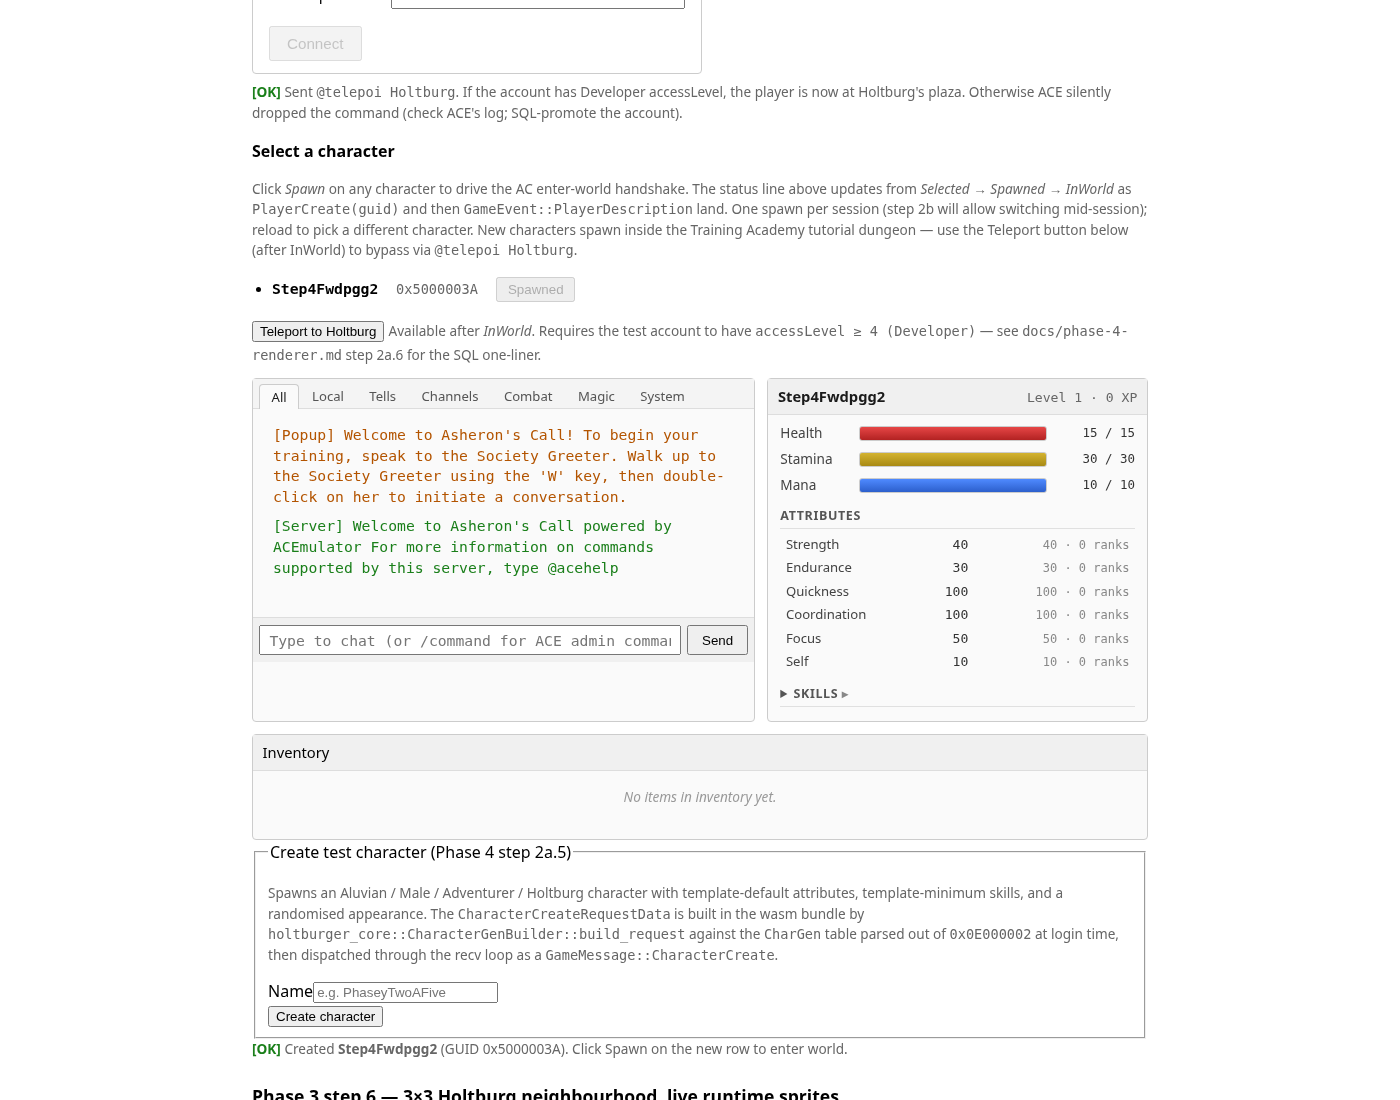
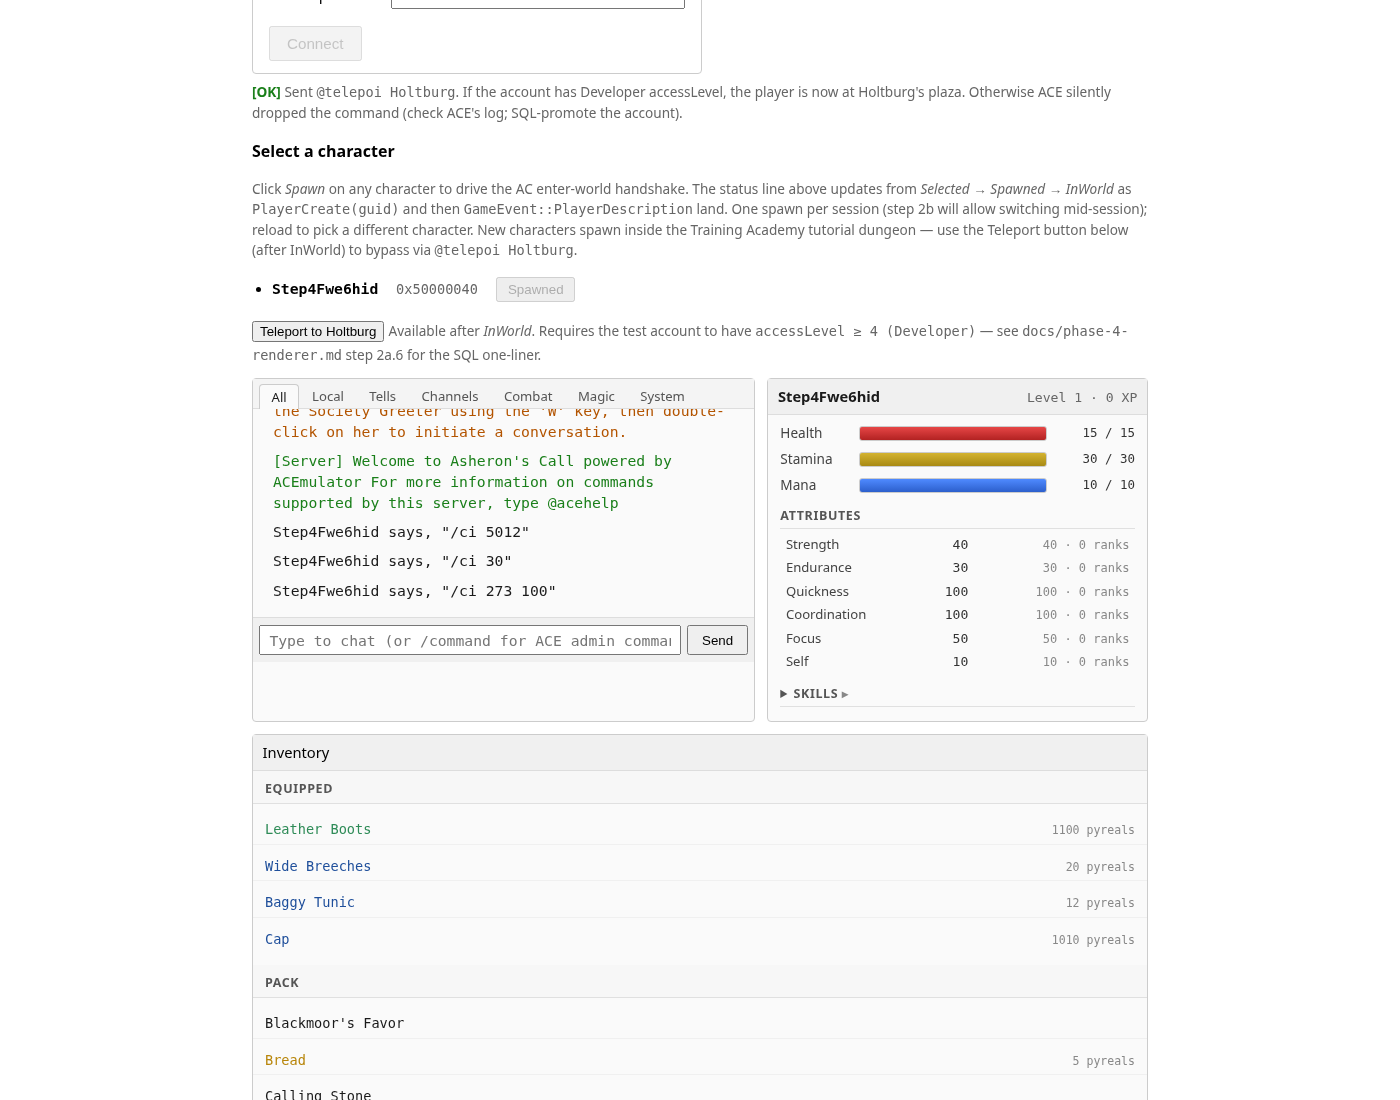
fix(emit-dynamic-site): inventory routing panic — bypass spatial body path
ObjectCreate routing through `holtburger_world::handlers::routing::handle_message`
panicked with `unreachable` in the spatial body store's
`scene.update_entity` + `reconcile_authoritative_body` path —
the wasm bundle doesn't drive the full physics tick the cli does
(no rapier integration), so some spatial preconditions aren't met
and the wasm `unreachable` instruction trips when the panic codegen
goes through the futures task closure (console_error_panic_hook
doesn't catch it).

Fix: bypass routing for the inventory-bearing message types
(ObjectCreate, ObjectDelete, InventoryRemoveObject) and apply the
inventory-relevant subset of the canonical handlers inline in the
recv loop. New helpers in `lib.rs`:

  fn apply_inventory_object_create(world, data) -> bool
  fn apply_inventory_object_delete(world, guid) -> bool

Both touch only `world.entities` (via the public `EntityManager::insert`
/ `EntityManager::remove` — no `add_entity` path which calls into
spatial), `world.player.add_to_inventory` /
`world.player.remove_from_inventory`, and the `wield_item` /
`unwield_item` equipment bookkeeping. The spatial scene + body
store stay untouched. Container ownership + wielder detection use
the same `WorldObjectExt::container_id` / `wielder_id` /
`wield_location` accessors the canonical handlers use.

Validation against live ACE:

- Fresh `Step4Fwe5xu1` character, +3 admin `/ci` grants (Healing
  Kit, Bundle of Arrows, 100 Pyreals).
[…]

diff --git a/external/holtburger/apps/holtburger-web/src/lib.rs b/external/holtburger/apps/holtburger-web/src/lib.rs
@@ -3448,25 +3448,25 @@ pub fn vital_name(vital_type: u32) -> String {
 /// gating, MovementSystem heartbeat arming) and double-handling them
 /// risks regressing step 3.6 / 3.5.
 ///
-/// **`ObjectCreate` / `ObjectDelete` / `ParentEvent` / `PickupEvent`
-/// / `InventoryRemoveObject` are deliberately NOT routed (yet).** The
-/// world's `inventory::handle_message` for `ObjectCreate` calls
+/// **`ObjectCreate` / `ObjectDelete` / `ParentEvent` / `PickupEvent` /
+/// `InventoryRemoveObject` are deliberately NOT routed.** The world's
+/// `inventory::handle_message` for `ObjectCreate` calls
 /// `state.upsert_entity_from_create` → `add_entity` → `scene.update_entity`
-/// + `reconcile_authoritative_body` which trips a wasm `unreachable`
-/// panic when the spatial body store touches state the wasm bundle
-/// hasn't fully initialised. Inventory population thus stays empty
-/// for now; vitals + attributes + skills still flow correctly because
-/// they go through the message types listed below. Resolving the
-/// inventory routing panic is tracked as a follow-on (probably
-/// requires either initialising the spatial scene differently, or
-/// applying a narrower inventory mutation in the recv loop directly).
+/// + `reconcile_authoritative_body`, which trips a wasm `unreachable`
+/// panic in the spatial body store (the wasm bundle doesn't drive the
+/// full physics tick the cli does, so some spatial preconditions
+/// aren't met). Inventory tracking bypasses routing for these
+/// variants — `apply_inventory_object_create` /
+/// `apply_inventory_object_delete` below replicate the
+/// inventory-relevant subset of the canonical handlers (entity
+/// insert, `add_to_inventory` / `remove_from_inventory`, equipment
+/// bookkeeping) without touching spatial state.
 ///
-/// `GameEvent` IS routed because it carries
-/// `UpdateHealth` (vital current), `PlayerDescription` (full biota
-/// hydrate — drives the first kind=8 stats event), and the recv
-/// loop's existing PlayerDescription arm is stripped of its
-/// hydrate/apply/emit calls (the dispatcher does them) so it only
-/// handles the fallback-caps clear / re-install.
+/// `GameEvent` IS routed because PlayerDescription drives the load-
+/// bearing first kind=8 event via login::handle_event +
+/// player::handle_event, and other GameEvents (UpdateHealth,
+/// ViewContents, IdentifyObjectResponse, WieldObject) all hit
+/// inventory / properties handlers that don't touch the spatial path.
 #[cfg(target_arch = "wasm32")]
 fn should_route_message_to_world(message: &holtburger_protocol::messages::GameMessage) -> bool {
     use holtburger_protocol::messages::GameMessage;
@@ -3481,6 +3481,81 @@ fn should_route_message_to_world(message: &holtburger_protocol::messages::GameMe
             | GameMessage::PublicUpdateSkill(_)
             | GameMessage::GameEvent(_)
     )
+}
+
+/// Phase 4 step 4 follow-on: spatial-bypass version of
+/// `holtburger_world::handlers::inventory::handle_message`'s
+/// `GameMessage::ObjectCreate` arm. Inserts the entity into
+/// `state.entities` (sans spatial body work) and updates
+/// `state.player.inventory` / `state.player.equipment` if the new
+/// entity is held / wielded by the local player.
+///
+/// Returns `true` if the entity is now owned by the player
+/// (caller flips `inventory_changed` so the snapshot publisher
+/// re-fires `kind=11`).
+#[cfg(target_arch = "wasm32")]
+fn apply_inventory_object_create(
+    world: &mut holtburger_world::WorldState,
+    data: &holtburger_protocol::messages::ObjectDescriptionData,
+) -> bool {
+    use holtburger_common::properties::WorldObjectExt as _;
+    let guid = data.public_weenie_desc.guid;
+    let entity_name = data
+        .public_weenie_desc
+        .name
+        .as_deref()
+        .unwrap_or("Unknown")
+        .to_string();
+    let pos = data.pos.unwrap_or_default();
+    let mut entity = holtburger_world::entity::Entity::new(guid, entity_name, pos);
+    entity.apply_description(data);
+
+    let container_id = entity.container_id();
+    let wielder_id = entity.wielder_id();
+    let equip_mask = entity.wield_location();
+
+    // Direct insert via the public EntityManager — skips the
+    // `add_entity` path that calls `scene.update_entity` +
+    // `reconcile_authoritative_body` (the spatial body work that
+    // panics in the wasm bundle). The entity collection is what
+    // `publish_player_inventory_snapshot` iterates against.
+    world.entities.insert(entity);
+
+    let held_by_player = container_id == Some(world.player.guid);
+    let wielded_by_player = wielder_id == Some(world.player.guid);
+
+    if held_by_player || wielded_by_player {
+        world.player.add_to_inventory(guid);
+        if wielded_by_player {
+            world.player.wield_item(guid, equip_mask);
+        } else {
+            world.player.unwield_item(guid);
+        }
+        true
+    } else {
+        false
+    }
+}
+
+/// Phase 4 step 4 follow-on: spatial-bypass version of
+/// `holtburger_world::handlers::inventory::handle_message`'s
+/// `GameMessage::ObjectDelete` /
+/// `GameMessage::InventoryRemoveObject` arms. Removes the entity
+/// from `state.entities` and from `state.player.inventory` /
+/// `state.player.equipment` if it was owned. Returns `true` if the
+/// removal touched player inventory.
+#[cfg(target_arch = "wasm32")]
+fn apply_inventory_object_delete(
+    world: &mut holtburger_world::WorldState,
+    guid: holtburger_common::Guid,
+) -> bool {
+    let was_owned = world.player.inventory.contains(&guid);
+    if was_owned {
+        world.player.remove_from_inventory(guid);
+        world.player.unwield_item(guid);
+    }
+    world.entities.remove(guid);
+    was_owned
 }
 
 /// One row from the AC CharacterList packet, projected to the fields
@@ -4817,22 +4892,42 @@ async fn recv_loop(
                                 _ => {}
                             }
                         }
-                        // Inventory-bearing message types (ObjectCreate /
-                        // ObjectDelete / InventoryRemoveObject /
-                        // ParentEvent / PickupEvent) are intentionally
-                        // NOT in `should_route_message_to_world` today —
-                        // see that function's doc comment for the reason
-                        // (routing them through the spatial-body path
-                        // panics with `unreachable` until the wasm
-                        // bundle initialises spatial scene state). The
-                        // inventory snapshot stays empty for now;
-                        // populating it will require either a narrower
-                        // inventory-only mutation that skips spatial
-                        // body work, or a follow-on that fixes the
-                        // routing panic. Stat events still drive
-                        // kind=8 PlayerStatsUpdated reliably through the
-                        // GameEvent::PlayerDescription / Update*Vital /
-                        // Update*Attribute / Update*Skill paths.
+                    }
+
+                    // Phase 4 step 4 follow-on: spatial-bypass inventory
+                    // tracking for `ObjectCreate` / `ObjectDelete` /
+                    // `InventoryRemoveObject`. Routing these through the
+                    // canonical `holtburger_world::handlers::inventory`
+                    // dispatcher trips a wasm `unreachable` panic in the
+                    // spatial body store (`scene.update_entity` +
+                    // `reconcile_authoritative_body` paths assume state
+                    // the wasm bundle doesn't initialise — see the
+                    // `should_route_message_to_world` doc comment). We
+                    // replicate the inventory-relevant subset of the
+                    // canonical handlers inline, sans spatial work, so
+                    // `state.entities` + `state.player.inventory` /
+                    // `state.player.equipment` stay current and
+                    // `publish_player_inventory_snapshot` produces a
+                    // populated snapshot.
+                    if let Some(w) = world.as_mut() {
+                        match &message {
+                            GameMessage::ObjectCreate(data) => {
+                                if apply_inventory_object_create(w, data) {
+                                    inventory_changed = true;
+                                }
+                            }
+                            GameMessage::ObjectDelete(data) => {
+                                if apply_inventory_object_delete(w, data.guid) {
+                                    inventory_changed = true;
+                                }
+                            }
+                            GameMessage::InventoryRemoveObject(data) => {
+                                if apply_inventory_object_delete(w, data.object_guid) {
+                                    inventory_changed = true;
+                                }
+                            }
+                            _ => {}
+                        }
                     }
                     if stats_changed && let Some(w) = world.as_ref() {
                         publish_player_stats_snapshot(w, &latest_stats);
